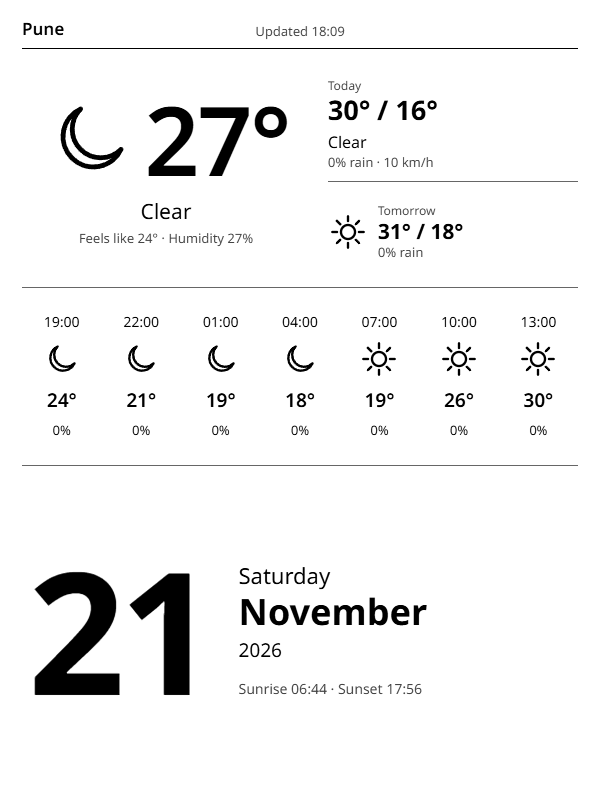
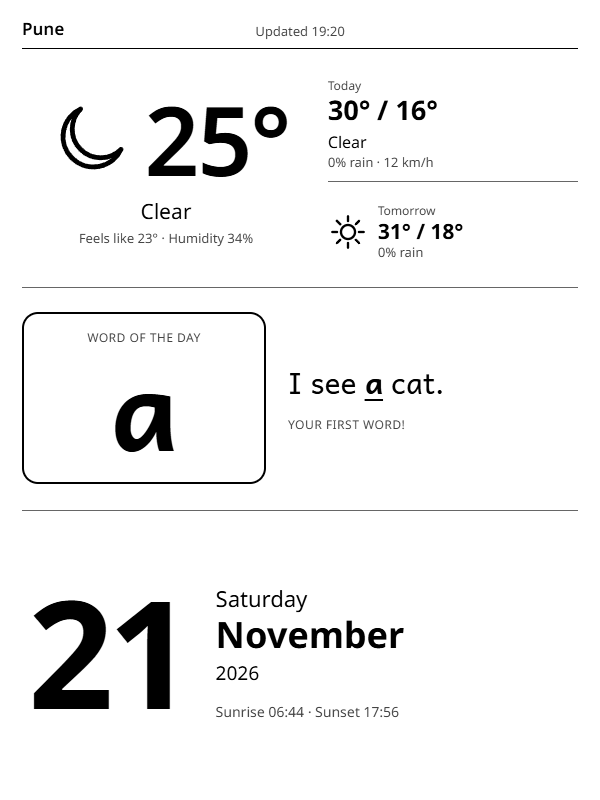
Add sight word of the day; run the schedule every 15 min off-peak
The */30 schedule never fired: GitHub delays or drops scheduled runs at busy
minutes. Run at :07/:22/:37/:52 instead.

Replace the hourly forecast row with a sight word card for an early reader:
Dolch pre-primer and primer words in the Andika font, with a sentence and
three review words.

diff --git a/src/template.js b/src/template.js
@@ -4,31 +4,49 @@ import { dirname, join } from 'node:path';
 import { icon } from './icons.js';
 
 const require = createRequire(import.meta.url);
-const fontDir = join(dirname(require.resolve('@fontsource/noto-sans/package.json')), 'files');
+const fontsDir = (pkg) => join(dirname(require.resolve(`@fontsource/${pkg}/package.json`)), 'files');
 
 // Fonts are embedded so the render never depends on the network or the OS font set.
-const fontFace = (weight) => {
-  const b64 = readFileSync(join(fontDir, `noto-sans-latin-${weight}-normal.woff2`)).toString('base64');
-  return `@font-face{font-family:'Noto Sans';font-weight:${weight};src:url(data:font/woff2;base64,${b64}) format('woff2');}`;
+// Andika is designed for early readers (single-storey "a" and "g", clear letter shapes).
+const fontFace = (pkg, family, weight) => {
+  const b64 = readFileSync(join(fontsDir(pkg), `${pkg}-latin-${weight}-normal.woff2`)).toString('base64');
+  return `@font-face{font-family:'${family}';font-weight:${weight};src:url(data:font/woff2;base64,${b64}) format('woff2');}`;
 };
+const FONTS = [
+  ...[400, 600, 700].map((wt) => fontFace('noto-sans', 'Noto Sans', wt)),
+  ...[400, 700].map((wt) => fontFace('andika', 'Andika', wt)),
+].join('\n');
 
 const esc = (s) => String(s).replace(/[&<>"]/g, (c) => ({ '&': '&amp;', '<': '&lt;', '>': '&gt;', '"': '&quot;' }[c]));
 
-export function renderHtml(w, cfg) {
-  const { current: c, today: t, tomorrow: tm, hours, date: d } = w;
+// Shrink long words so they always fit the card.
+const wordSize = (word) => ({ 1: 112, 2: 108, 3: 100, 4: 86, 5: 72, 6: 60 }[word.length] ?? 54);
 
-  const hourCells = hours.map((h) => `
-      <div class="hour">
-        <div class="h-time">${h.time}</div>
-        ${icon(h.icon, 40, 1.4)}
-        <div class="h-temp">${h.temp}°</div>
-        <div class="h-rain">${h.rain}%</div>
-      </div>`).join('');
+function sightWordSection(sw) {
+  const sentence = esc(sw.sentence).replace(/\{(.+?)\}/, '<b>$1</b>');
+  const review = sw.review.length
+    ? `<div class="w-k">Practice</div><div class="w-chips">${sw.review.map((r) => `<span class="chip">${esc(r)}</span>`).join('')}</div>`
+    : `<div class="w-k">Your first word!</div>`;
+  return `
+  <section class="words">
+    <div class="w-card">
+      <div class="w-label">Word of the day</div>
+      <div class="w-word" style="font-size:${wordSize(sw.word)}px">${esc(sw.word)}</div>
+    </div>
+    <div class="w-right">
+      <div class="w-sentence">${sentence}</div>
+      <div class="w-review">${review}</div>
+    </div>
+  </section>`;
+}
+
+export function renderHtml(w, cfg, sw) {
+  const { current: c, today: t, tomorrow: tm, date: d } = w;
 
   return `<!doctype html>
 <html><head><meta charset="utf-8">
 <style>
-${[400, 600, 700].map(fontFace).join('\n')}
+${FONTS}
 *{box-sizing:border-box;margin:0;padding:0}
 html,body{width:${cfg.width}px;height:${cfg.height}px;background:#fff;color:#000;overflow:hidden}
 body{font-family:'Noto Sans',sans-serif;padding:14px 22px 18px;display:flex;flex-direction:column}
@@ -55,14 +73,21 @@ header .battery{justify-self:end;width:104px} /* left blank: the Kindle draws it
 .tomorrow{display:flex;align-items:center;gap:10px;padding-top:10px}
 .tomorrow .hilo{font-size:21px}
 
-.hours{display:grid;grid-template-columns:repeat(${hours.length},1fr);padding:24px 0 26px;text-align:center}
-.hour{display:flex;flex-direction:column;align-items:center;gap:8px}
-.h-time{font-size:14px}
-.h-temp{font-size:19px;font-weight:600}
-.h-rain{font-size:13px}
+.words{display:flex;align-items:center;gap:22px;padding:24px 0 26px}
+.w-card{width:244px;height:172px;flex:none;border:2.5px solid #000;border-radius:16px;
+  display:flex;flex-direction:column;align-items:center;justify-content:center}
+.w-label{font-size:12px;color:#444;letter-spacing:.5px;text-transform:uppercase;margin-top:-4px}
+.w-word{font-family:'Andika',sans-serif;font-weight:700;line-height:1.05}
+.w-right{flex:1;display:flex;flex-direction:column;gap:16px}
+.w-sentence{font-family:'Andika',sans-serif;font-size:30px;line-height:1.25;text-wrap:balance}
+.w-sentence b{font-weight:700;text-decoration:underline;text-decoration-thickness:2px;text-underline-offset:5px}
+.w-review{display:flex;flex-direction:column;align-items:flex-start;gap:6px}
+.w-k{font-size:12px;color:#444;text-transform:uppercase;letter-spacing:.5px}
+.w-chips{display:flex;gap:8px}
+.chip{font-family:'Andika',sans-serif;font-size:23px;padding:1px 12px 3px;border:1.5px solid #444;border-radius:10px}
 
 .date{flex:1;display:flex;align-items:center;gap:28px;padding:10px 6px 0}
-.d-num{font-size:170px;font-weight:700;line-height:.9;letter-spacing:-6px}
+.d-num{font-size:150px;font-weight:700;line-height:.9;letter-spacing:-6px}
 .d-week{font-size:22px}
 .d-month{font-size:36px;font-weight:700;line-height:1.2}
 .d-year{font-size:19px;margin-top:4px}
@@ -102,8 +127,7 @@ header .battery{justify-self:end;width:104px} /* left blank: the Kindle draws it
   </section>
   <div class="thin"></div>
 
-  <section class="hours">${hourCells}
-  </section>
+  ${sightWordSection(sw)}
   <div class="thin"></div>
 
   <section class="date">

diff --git a/src/sightwords.js b/src/sightwords.js
@@ -1,0 +1,111 @@
+// Sight word of the day for an early reader.
+// Words follow the Dolch pre-primer then primer lists, the usual first sight words at age 4-6.
+// Each sentence marks the word in {braces} so the template can highlight it.
+
+export const WORDS = [
+  // Pre-primer
+  ['a', 'I see {a} cat.'],
+  ['I', '{I} can run.'],
+  ['see', 'I {see} the sun.'],
+  ['the', 'Look at {the} dog.'],
+  ['can', 'I {can} jump.'],
+  ['go', 'We {go} to school.'],
+  ['to', 'I go {to} the park.'],
+  ['up', 'The ball went {up}.'],
+  ['down', 'Sit {down} here.'],
+  ['in', 'The cat is {in} the box.'],
+  ['is', 'It {is} a big tree.'],
+  ['it', 'I like {it}.'],
+  ['my', 'This is {my} hat.'],
+  ['me', 'Come with {me}.'],
+  ['we', '{We} can play.'],
+  ['you', 'I love {you}.'],
+  ['and', 'Mom {and} Dad.'],
+  ['big', 'A {big} red bus.'],
+  ['little', 'A {little} bird.'],
+  ['look', '{Look} at me!'],
+  ['come', '{Come} and see.'],
+  ['play', 'Let us {play}.'],
+  ['run', 'I can {run} fast.'],
+  ['jump', 'Frogs {jump} high.'],
+  ['help', 'Can you {help} me?'],
+  ['here', 'Come {here}, please.'],
+  ['where', '{Where} is my cat?'],
+  ['not', 'It is {not} hot.'],
+  ['one', 'I have {one} cake.'],
+  ['two', 'I see {two} cows.'],
+  ['three', '{Three} little pigs.'],
+  ['red', 'A {red} apple.'],
+  ['blue', 'The sky is {blue}.'],
+  ['yellow', 'A {yellow} sun.'],
+  ['for', 'This is {for} you.'],
+  ['find', 'Can you {find} it?'],
+  ['funny', 'A {funny} clown.'],
+  ['make', 'We {make} a cake.'],
+  ['said', 'Mom {said} yes.'],
+  ['away', 'The bird flew {away}.'],
+  // Primer
+  ['he', '{He} is my friend.'],
+  ['she', '{She} can sing.'],
+  ['they', '{They} play ball.'],
+  ['am', 'I {am} happy.'],
+  ['are', 'We {are} home.'],
+  ['at', 'Look {at} the moon.'],
+  ['be', 'I will {be} good.'],
+  ['do', 'I can {do} it!'],
+  ['did', 'I {did} it!'],
+  ['get', 'Go {get} the ball.'],
+  ['have', 'I {have} a dog.'],
+  ['like', 'I {like} milk.'],
+  ['on', 'The cup is {on} the table.'],
+  ['out', 'Let us go {out}.'],
+  ['into', 'Jump {into} the pool.'],
+  ['under', 'The cat is {under} the bed.'],
+  ['with', 'Play {with} me.'],
+  ['all', 'We {all} sing.'],
+  ['no', '{No}, thank you.'],
+  ['yes', '{Yes}, please!'],
+  ['please', 'Milk, {please}.'],
+  ['good', 'You are a {good} dog.'],
+  ['new', 'I have {new} shoes.'],
+  ['now', 'Come here {now}.'],
+  ['soon', 'See you {soon}!'],
+  ['too', 'I want to go {too}.'],
+  ['so', 'I am {so} happy!'],
+  ['this', '{This} is my book.'],
+  ['that', '{That} is a big dog.'],
+  ['there', 'The park is over {there}.'],
+  ['what', '{What} is that?'],
+  ['who', '{Who} is at the door?'],
+  ['was', 'It {was} fun.'],
+  ['went', 'We {went} to the zoo.'],
+  ['came', 'Grandma {came} to see us.'],
+  ['ran', 'The dog {ran} fast.'],
+  ['saw', 'I {saw} a fish.'],
+  ['ate', 'I {ate} my lunch.'],
+  ['eat', 'Let us {eat}.'],
+  ['ride', 'I {ride} my bike.'],
+  ['say', '{Say} hello!'],
+  ['want', 'I {want} a hug.'],
+  ['will', 'I {will} help you.'],
+  ['must', 'We {must} go to bed.'],
+  ['our', 'This is {our} house.'],
+  ['four', 'A cat has {four} legs.'],
+  ['black', 'A {black} cat.'],
+  ['brown', 'A {brown} bear.'],
+  ['white', 'A {white} cloud.'],
+  ['pretty', 'A {pretty} flower.'],
+  ['well', 'Sleep {well}.'],
+  ['but', 'I am small {but} strong.'],
+];
+
+// One new word per day, counted from `startDate` (YYYY-MM-DD) in the dashboard's timezone.
+export function wordOfTheDay(todayIso, startDate, reviewCount = 3) {
+  const day = (iso) => Date.UTC(...iso.split('-').map((n, i) => (i === 1 ? n - 1 : +n)));
+  const n = Math.max(0, Math.round((day(todayIso) - day(startDate)) / 86400000));
+  const at = (k) => WORDS[((k % WORDS.length) + WORDS.length) % WORDS.length];
+  const [word, sentence] = at(n);
+  const review = [];
+  for (let k = 1; k <= reviewCount && n - k >= 0; k++) review.push(at(n - k)[0]);
+  return { word, sentence, review, number: (n % WORDS.length) + 1, total: WORDS.length };
+}

diff --git a/src/render.js b/src/render.js
@@ -5,13 +5,16 @@ import puppeteer from 'puppeteer';
 import sharp from 'sharp';
 import { fetchWeather } from './weather.js';
 import { renderHtml } from './template.js';
+import { wordOfTheDay } from './sightwords.js';
 
 const cfg = JSON.parse(readFileSync(new URL('../config.json', import.meta.url)));
 const outDir = new URL('../out/', import.meta.url);
 mkdirSync(outDir, { recursive: true });
 
 const weather = await fetchWeather(cfg);
-const html = renderHtml(weather, cfg);
+// SW_DATE=YYYY-MM-DD previews the sight word for another day.
+const sw = wordOfTheDay(process.env.SW_DATE || weather.date.iso, cfg.sightWords.startDate, cfg.sightWords.reviewCount);
+const html = renderHtml(weather, cfg, sw);
 writeFileSync(new URL('preview.html', outDir), html);
 writeFileSync(new URL('weather.json', outDir), JSON.stringify(weather, null, 2));
 

diff --git a/src/weather.js b/src/weather.js
@@ -105,6 +105,7 @@ function shape(raw, cfg) {
     tomorrow: day(1),
     hours,
     date: {
+      iso: d.time[0],
       day: dd,
       weekday: date.toLocaleDateString('en-GB', { weekday: 'long', timeZone: 'UTC' }),
       month: date.toLocaleDateString('en-GB', { month: 'long', timeZone: 'UTC' }),

diff --git a/README.md b/README.md
@@ -16,6 +16,7 @@ Open-Meteo API ──► GitHub Actions (every 30 min) ──► GitHub Pages: d
 | `src/weather.js` | Fetches the Open-Meteo forecast (no API key) and maps weather codes to labels/icons |
 | `src/icons.js` | Line-art weather icons drawn for e-ink |
 | `src/template.js` | The dashboard layout (HTML/CSS) |
+| `src/sightwords.js` | Sight word of the day: 92 Dolch pre-primer and primer words, each with a short sentence |
 | `src/render.js` | Renders HTML → screenshot → 8-bit grayscale PNG in `out/` |
 | `.github/workflows/render.yml` | Runs the render every 30 min and publishes `out/` to GitHub Pages |
 | `kindle/weatherdash/` | Dashboard scripts for the Kindle (`/mnt/us/weatherdash`) |
@@ -82,6 +83,13 @@ Every run writes a step-by-step log to `weatherdash/dash.log` on the Kindle driv
 - **Battery badge in the wrong place:** change `BATTERY_X` / `BATTERY_Y` (pixels).
 - **Never wakes up / only refreshes while plugged in:** try `RTC_DEV=/dev/rtc0`.
 - **Download fails:** check `dash.log`. It records curl's error.
+
+## Sight word of the day
+
+The middle of the dashboard shows one new sight word a day, in the Andika font (made for early
+readers), with a short sentence using it and the previous three words to practise. Words run in
+order from `sightWords.startDate` in `config.json` and loop after 92 days. To start over, set
+`startDate` to today. To preview another day: `$env:SW_DATE="2026-12-24"; npm run render`.
 
 ## Changing city
 
